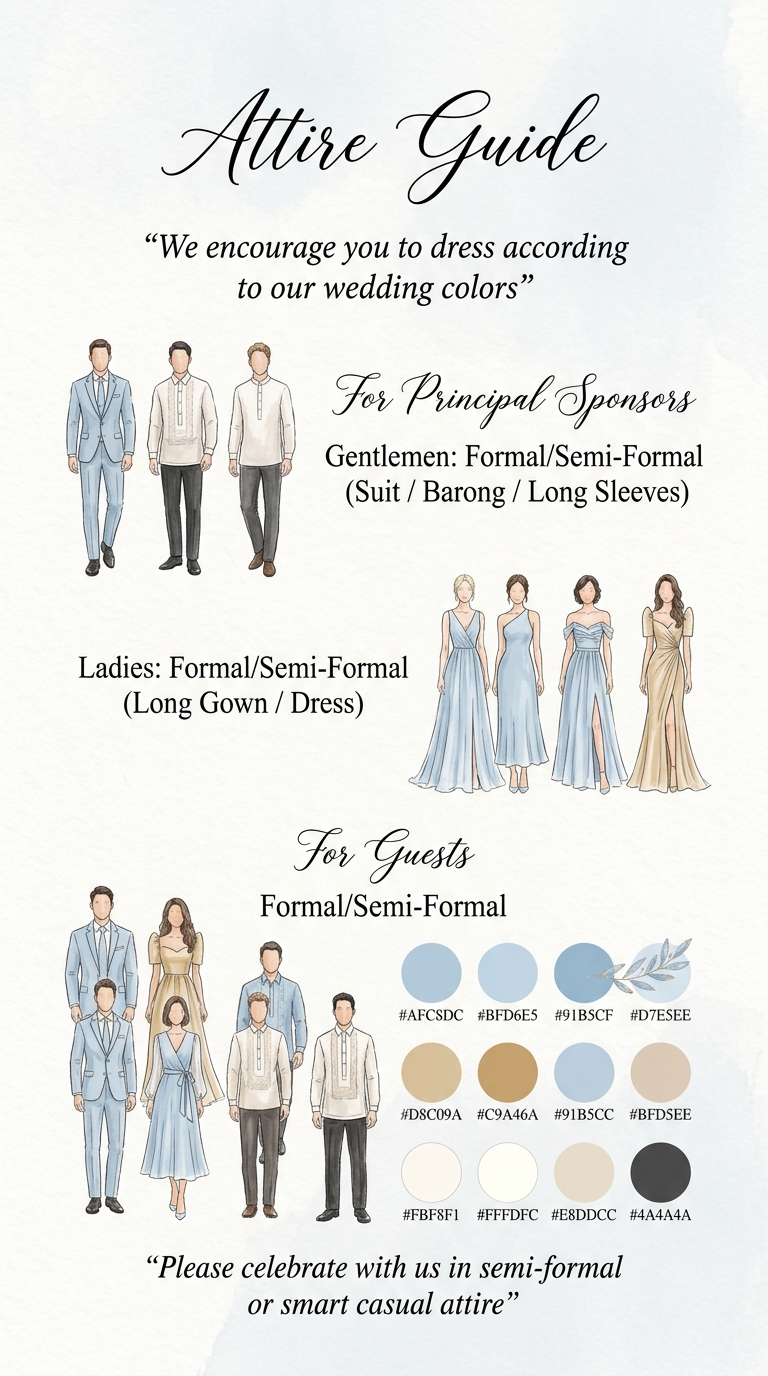
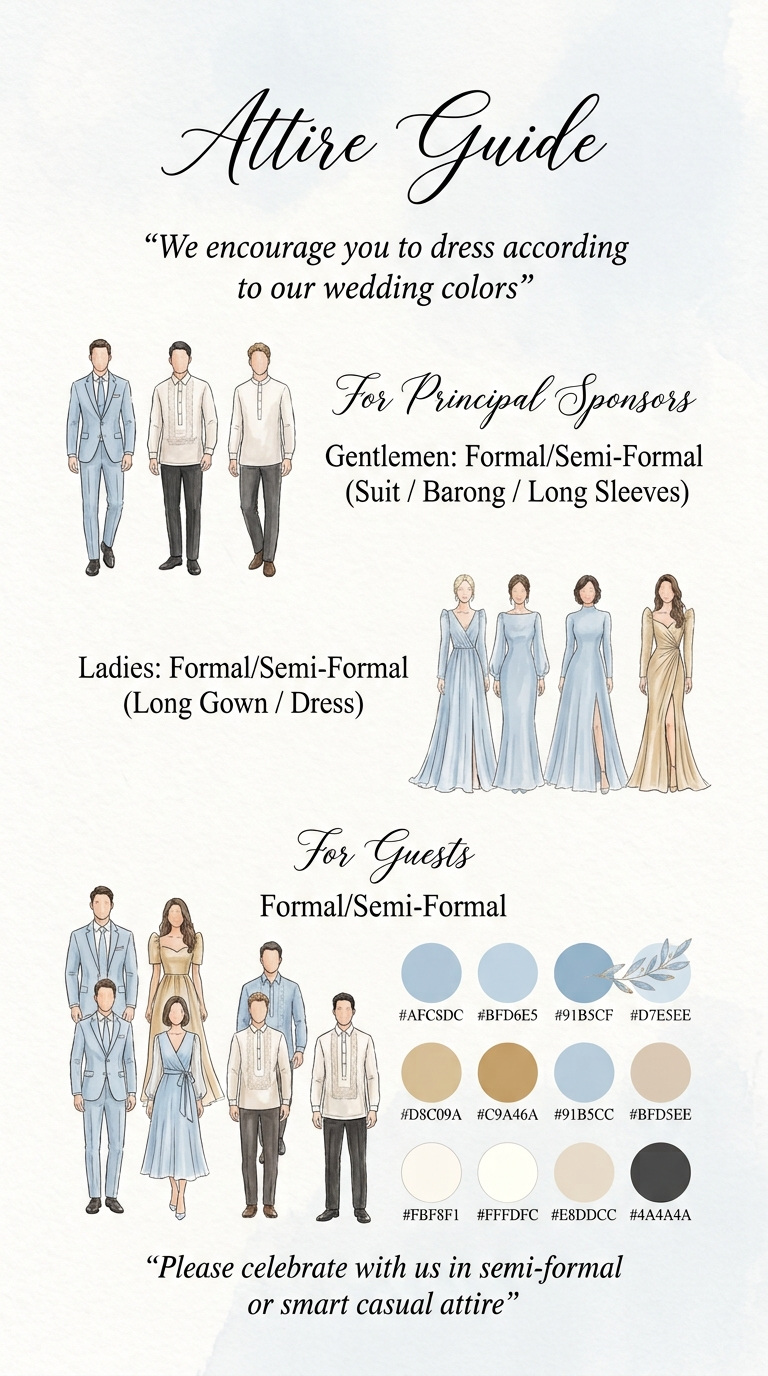
update: change the attire guide pic

Changed region(s): [[0.5625, 0.4062, 0.8438, 0.5938], [0.875, 0.4375, 0.9062, 0.5]]

diff --git a/app/data/wedding.ts b/app/data/wedding.ts
@@ -289,8 +289,6 @@ export const entourageGroups: readonly EntourageGroup[] = [
       { name: 'Nicole M. De Luna' },
       { name: 'Eunicka Antonette D. Dy' },
       { name: 'Imelda S. Bumanlag' },
-      { name: 'Donita Rose J. Cantona' },
-      { name: 'Ida Bianca M. Flores' }
     ]
   },
   {
@@ -302,8 +300,6 @@ export const entourageGroups: readonly EntourageGroup[] = [
       { name: 'King Immanuel C. Lintag' },
       { name: 'Lee Jay M. Mendiola' },
       { name: 'Gidheon Dave M. Martin' },
-      { name: 'Jayson M. Baria' },
-      { name: 'Kelvin P. Banguis' }
     ]
   }
 ]
@@ -315,8 +311,6 @@ export const principalSponsors: PrincipalSponsors = {
     'Mr. Franchi Janus D. Ladera',
     'Mr. Bernard R. Tolentino',
     'Mr. Rizaleo C. Valeriano',
-    'Mr. Roden C. Bolos',
-    'Mr. Warlito T. Viernes'
   ],
   ninangs: [
     'Mrs. Jennifer T. Go',
@@ -324,8 +318,6 @@ export const principalSponsors: PrincipalSponsors = {
     'Mrs. Adoracion F. Zafra',
     'Mrs. Jean R. Altobano',
     'Mrs. Susana B. Balanay',
-    'Mrs. Marife A. Pato',
-    'Mrs. Luningning Hilaga'
   ]
 }
 
